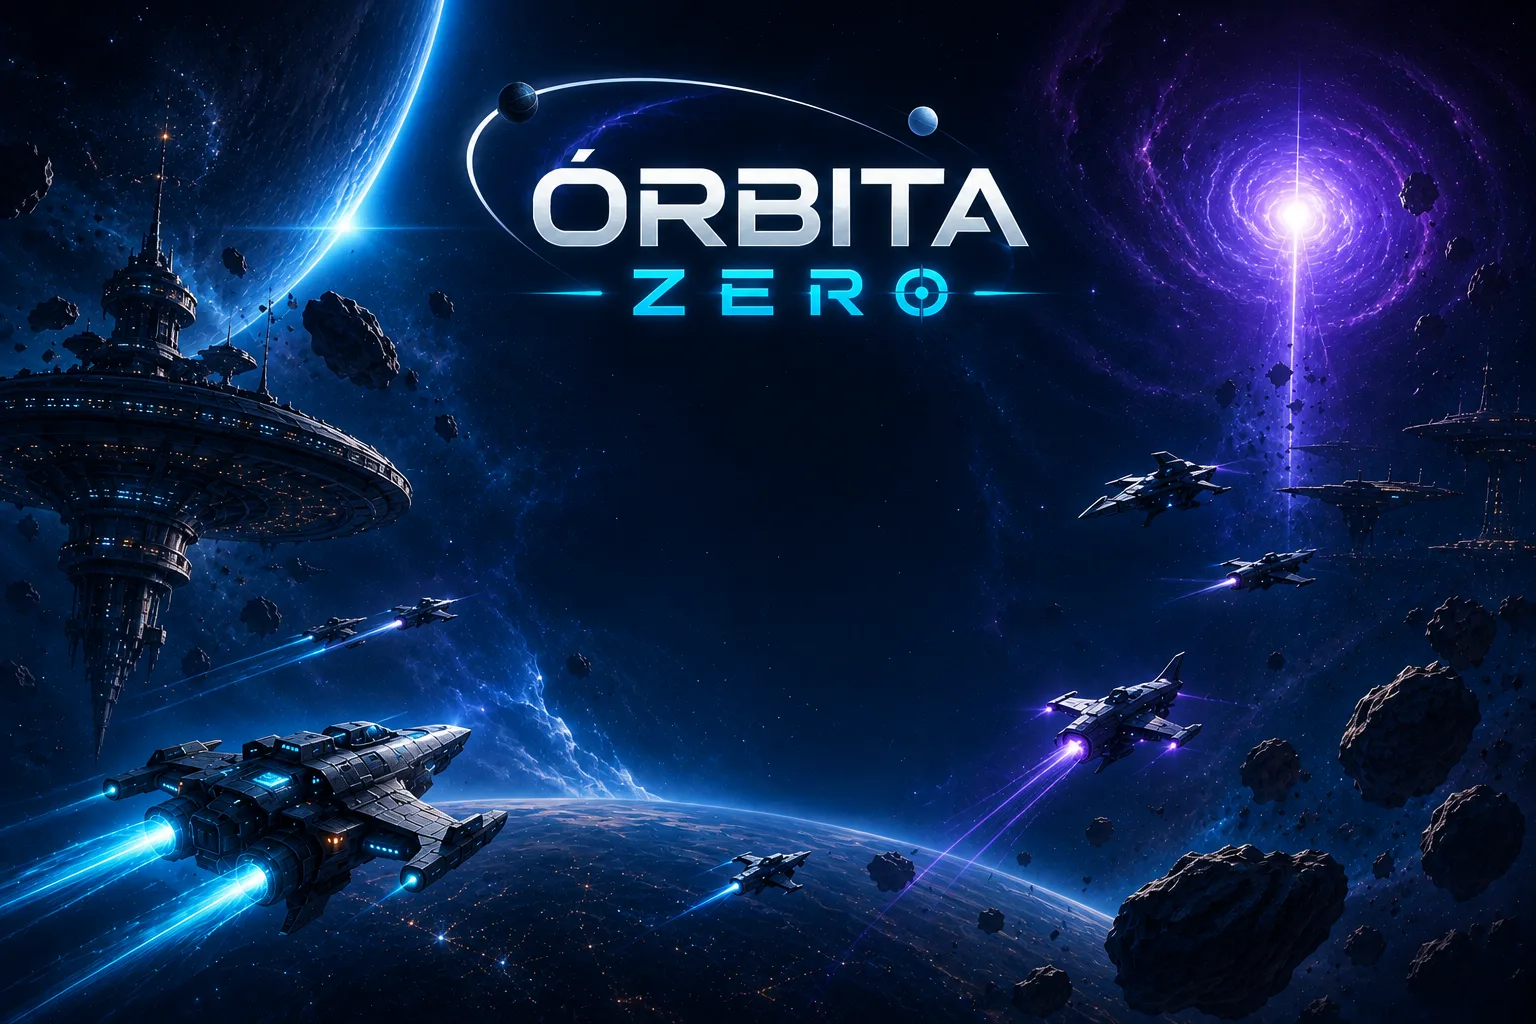
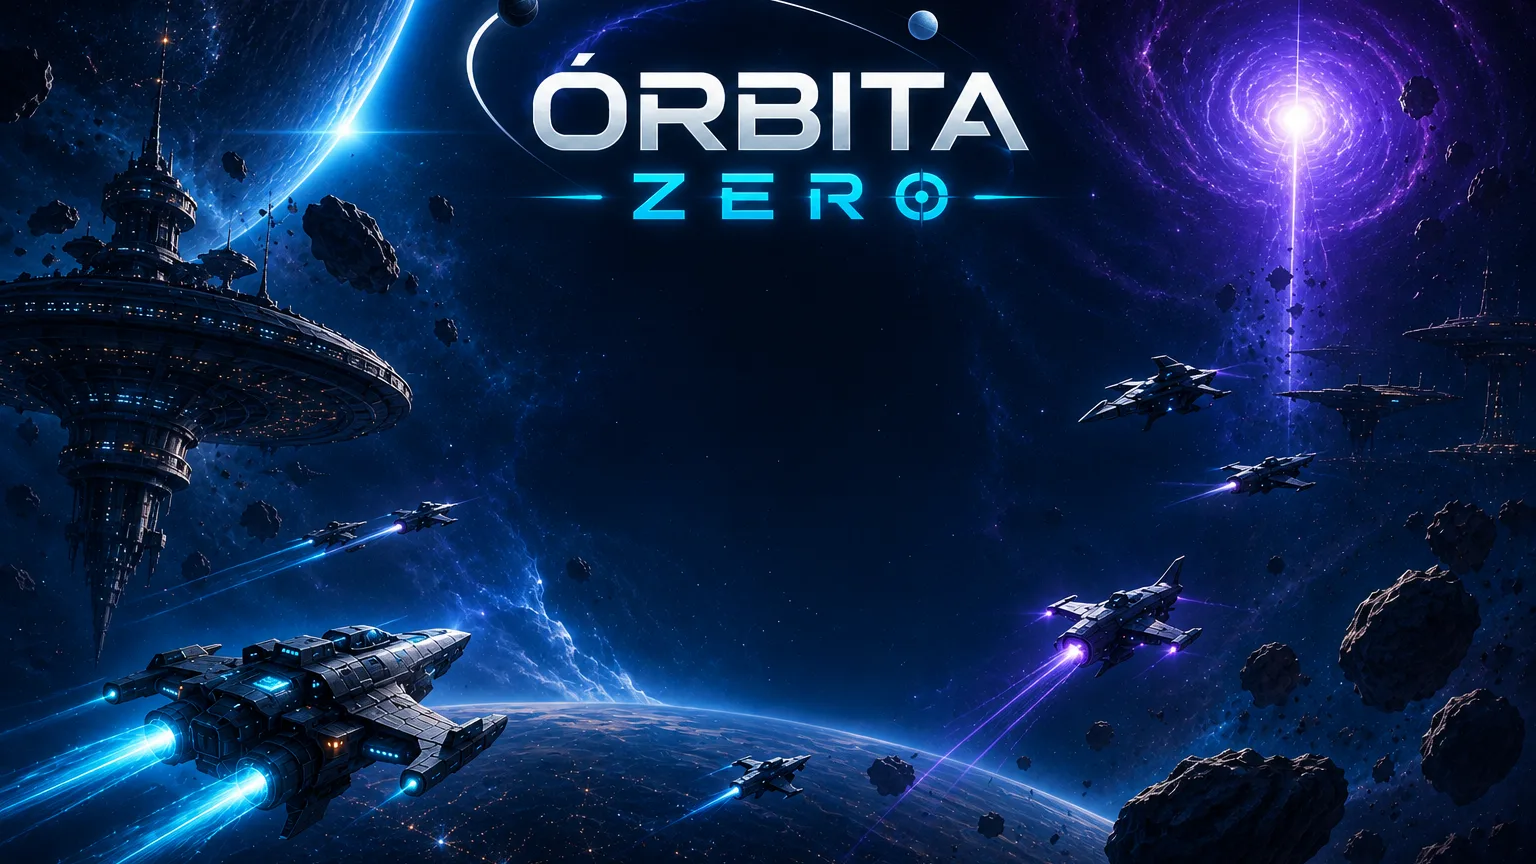
A capa vira 16:9 na origem, e a caixa de login cresce
Voce apontou duas coisas, e a segunda tinha causa mais funda do que parecia.

## A caixa estava pequena

  largura   360 -> 430
  respiro    26 -> 34
  altura    328 -> 391

Numa tela de 1730 de largura, 360px liam como um aviso perdido no meio da arte,
e nao como o assunto da tela — que e o que ela e. O teto continua existindo:
formulario de dois campos esticado ate 700 fica com linhas longas e vazias e
piora.

## A nave cortada era problema da IMAGEM, nao do CSS

A arte nasce em 3:2 e a tela e 16:9 ou mais larga. Com `cover`, essa diferenca
tem de sair de algum lugar: medido na sua janela de 1730x915, sobravam 238px.

E nao havia corte bom. Por baixo come a nave grande, que e o assunto do jogo;
por cima come o logo, que e a razao de a arte estar ali. Tentei primeiro
resolver no CSS, com `background-position: center 32%`, e o resultado foi o
esperado de um remendo: a nave passou de 238 para 90px cortados, ainda cortada,
e sem margem para melhorar porque o logo tinha so 25px de folga.

Nenhum `background-position` conserta esse conflito — ele so escolhe qual dos
dois perder.

Aparar na ORIGEM resolve. A faixa de 96px no topo e ceu vazio acima do anel
orbital, e as 64 de baixo sao superficie de planeta. Sem elas a arte vira
1536x864, exatamente 16:9:

  sobra para cortar    238px -> 58px
  logo                 intacto, topo em y=20
  nave grande          inteira, com os rastros

E o `background-position` voltou para `center center`: com a imagem na
[…]

diff --git a/game/src/styles/main.css b/game/src/styles/main.css
@@ -6580,9 +6580,16 @@ html[data-contrast='high'] .modal { background-color: #080e1a !important; }
 /*
  * A arte de capa, e o véu que a torna fundo.
  *
- * `cover` com foco no TOPO: o logo está lá em cima na arte, e centralizar o
- * enquadramento o cortaria em janela larga e baixa — que é a forma de
- * praticamente todo monitor.
+ * ## O enquadramento
+ *
+ * `center center` e nao mais um deslocamento calculado: a arte JA e aparada
+ * para 16:9 na origem (ver `tools/optimize-capa.mjs`), entao o que sobra para
+ * cortar em tela cheia e pequeno e simetrico.
+ *
+ * A versao anterior tentava resolver no CSS o que era problema da imagem — a
+ * arte vinha em 3:2 e a tela e 16:9, e nenhum `background-position` conserta
+ * isso: ele so escolhe se o corte come o logo ou a nave. Aparar na origem faz a
+ * pergunta desaparecer.
  *
  * O gradiente por cima existe porque a arte é clara e detalhada no meio,
  * exatamente onde a caixa de login fica. Sem ele o campo de e-mail cairia em
@@ -6599,14 +6606,25 @@ html[data-contrast='high'] .modal { background-color: #080e1a !important; }
       rgba(4, 7, 13, .15) 0%,
       rgba(4, 7, 13, .55) 42%,
       rgba(4, 7, 13, .88) 100%),
-    url('/assets/ui/capa/login.webp') center top / cover no-repeat,
+    url('/assets/ui/capa/login.webp') center center / cover no-repeat,
     #04070d;
 }
+/*
+ * A caixa tem porte de tela inicial, não de formulário embutido.
+ *
+ * A primeira versão usava 360px de largura e 26px de respiro, e numa tela de
+ * 1730 de largura aquilo lia como um aviso perdido no meio da arte — pequeno
+ * demais para ser o assunto da tela, que é o que ela é.
+ *
+ * O teto continua existindo: um formulário de dois campos esticado até 700px
+ * fica com linhas longas e vazias e piora. 430 é onde ele para de parecer
+ * apertado sem começar a parecer esticado.
+ */
 .login-caixa {
   position: relative;
-  width: min(92vw, 360px);
-  display: grid; gap: 10px;
-  padding: 26px 24px;
+  width: min(92vw, 430px);
+  display: grid; gap: 13px;
+  padding: 34px 32px;
   border: 1px solid var(--painel-linha); border-radius: 10px;
   /* Translúcida com desfoque: deixa a arte aparecer atrás sem que ela
    * atrapalhe a leitura do formulário. Chapa opaca por cima de uma pintura
@@ -6615,31 +6633,31 @@ html[data-contrast='high'] .modal { background-color: #080e1a !important; }
   backdrop-filter: blur(10px);
   box-shadow: 0 18px 48px rgba(0, 0, 0, .7);
 }
-.login-sub { margin: 0 0 6px; text-align: center; font-size: 12px; color: var(--muted); }
+.login-sub { margin: 0 0 8px; text-align: center; font-size: 13.5px; color: var(--muted); }
 
-.login-abas { display: grid; grid-template-columns: 1fr 1fr; gap: 6px; }
+.login-abas { display: grid; grid-template-columns: 1fr 1fr; gap: 8px; }
 .login-aba {
-  padding: 7px 0; cursor: pointer;
+  padding: 10px 0; cursor: pointer;
   border: 1px solid var(--painel-linha); border-radius: 6px;
   background: rgba(4, 10, 17, .8); color: var(--muted);
-  font: 600 12px/1 'Chakra Petch', sans-serif;
+  font: 600 13px/1 'Chakra Petch', sans-serif;
 }
 .login-aba.ativa { color: #9fe8ff; border-color: var(--line-strong); }
 .login-aba:disabled { opacity: .5; cursor: default; }
 
 .login-campo {
-  width: 100%; padding: 9px 10px;
+  width: 100%; padding: 12px 13px;
   border: 1px solid var(--painel-linha); border-radius: 6px;
   background: rgba(4, 10, 17, .85); color: #dbe6ef;
-  font: 400 13px/1.2 'Chakra Petch', sans-serif;
+  font: 400 14.5px/1.2 'Chakra Petch', sans-serif;
 }
 .login-campo:focus { outline: none; border-color: var(--accent); }
 
 .login-enviar {
-  margin-top: 4px; padding: 10px 0; cursor: pointer;
+  margin-top: 6px; padding: 13px 0; cursor: pointer;
   border: 1px solid var(--line-strong); border-radius: 6px;
   background: linear-gradient(180deg, rgba(30, 96, 140, .9), rgba(16, 54, 82, .9));
-  color: #eaf6ff; font: 700 13px/1 'Chakra Petch', sans-serif;
+  color: #eaf6ff; font: 700 14px/1 'Chakra Petch', sans-serif;
   letter-spacing: .06em;
 }
 .login-enviar:disabled { opacity: .55; cursor: default; }
@@ -6647,15 +6665,15 @@ html[data-contrast='high'] .modal { background-color: #080e1a !important; }
 /* Uma cor só para o recado, e neutra: parte dele é sucesso ("confirme o
  * e-mail") e parte é erro. Pintar tudo de vermelho mentiria na metade. */
 .login-recado {
-  margin: 2px 0 0; text-align: center; font-size: 12px; color: #ffc46b;
+  margin: 2px 0 0; text-align: center; font-size: 13px; color: #ffc46b;
   min-height: 1.2em;
 }
 .login-recado.hidden { display: none; }
 
 .login-pular {
-  margin-top: 2px; padding: 6px 0; cursor: pointer;
+  margin-top: 4px; padding: 8px 0; cursor: pointer;
   border: 0; background: none; color: var(--muted);
-  font: 600 11px/1 'Chakra Petch', sans-serif; text-decoration: underline;
+  font: 600 12px/1 'Chakra Petch', sans-serif; text-decoration: underline;
 }
 .login-pular:disabled { opacity: .5; cursor: default; }
 .login-nota { margin: 0; text-align: center; }
